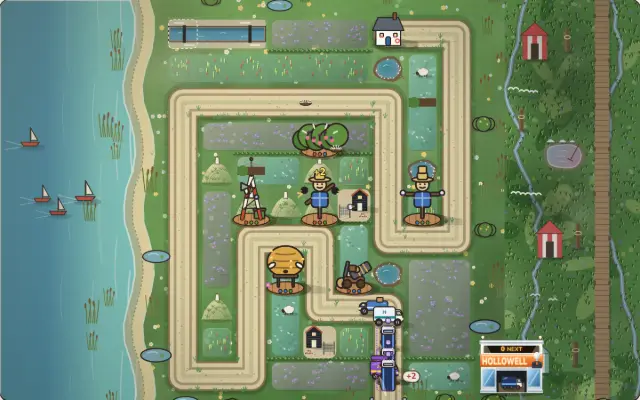
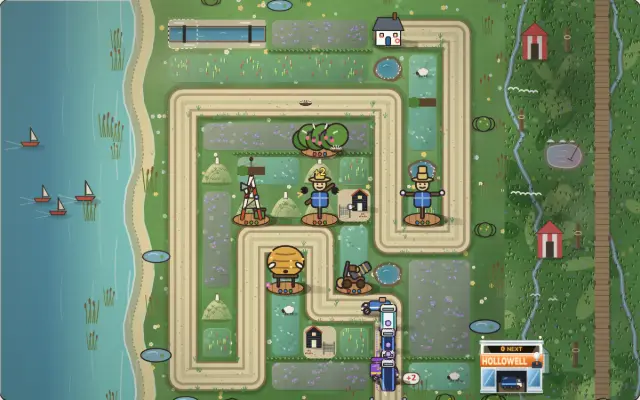
440 slice 3: Hedgerow 2D field hedges throw their shadow away from the act's sun, a second fainter band where they meet the bed (occlusion), their leaf highlights on the sun side; key art re-shot; hedgerow field/fieldkit pass
Claude-Session: https://claude.ai/code/session_01SimvMPB319cCQgjkucXjGQ

Changed region(s): [[0.5625, 0.75, 0.6562, 0.96]]

diff --git a/games/hedgerow/src/theme.ts b/games/hedgerow/src/theme.ts
@@ -734,7 +734,7 @@ function paintPlots(ctx: CanvasRenderingContext2D, level: Level, L: Layout): voi
         // Item 345: where this field meets a different crop below, a low hedge runs along the grass between them.
         const below = leadIn.has(`${c},${r + 1}`) ? undefined : looks.get(`${c},${r + 1}`);
         const flat = (l: PlotLook | undefined) => (l === "puddle" ? "earth" : l);
-        if (below && !sameField(level, c, r, c, r + 1) && flat(below) !== flat(look)) paintFieldHedge(ctx, x, y + s, s, c * 37 + r * 11 + level.id);
+        if (below && !sameField(level, c, r, c, r + 1) && flat(below) !== flat(look)) paintFieldHedge(ctx, x, y + s, s, c * 37 + r * 11 + level.id, away);
         continue;
       }
       ctx.fillStyle = "rgba(60,80,20,0.07)";
@@ -822,11 +822,14 @@ function paintPlots(ctx: CanvasRenderingContext2D, level: Level, L: Layout): voi
 /** Plan item 52: a plot drawn by what lies under it, so neighbouring beds differ. */
 /** Plan item 345: a cell's length of low hedge along the grass between two fields, centred on `y`: a dark base
  *  line and a crown of leafy bumps, seeded so the run of hedge doesn't repeat. */
-function paintFieldHedge(ctx: CanvasRenderingContext2D, x: number, y: number, s: number, seed: number): void {
+function paintFieldHedge(ctx: CanvasRenderingContext2D, x: number, y: number, s: number, seed: number, away = { x: 0, y: 1 }): void {
   const r01 = rng(seed);
   ctx.save();
+  // Plan item 440: the hedge's shadow falls away from the act's sun, darkest where it meets the bed (occlusion)
   ctx.fillStyle = "rgba(40,30,10,0.2)";
-  ctx.fillRect(x, y + s * 0.02, s, s * 0.06);
+  ctx.fillRect(x + away.x * s * 0.05, y + s * 0.02 + away.y * s * 0.04, s, s * 0.06);
+  ctx.fillStyle = "rgba(40,30,10,0.12)";
+  ctx.fillRect(x + away.x * s * 0.1, y + s * 0.04 + away.y * s * 0.08, s, s * 0.05);
   ctx.fillStyle = "rgb(58,96,46)";
   ctx.fillRect(x, y - s * 0.03, s, s * 0.06);
   const bumps = 8;
@@ -839,7 +842,7 @@ function paintFieldHedge(ctx: CanvasRenderingContext2D, x: number, y: number, s:
     ctx.fill();
     ctx.fillStyle = "rgba(150,196,104,0.75)";
     ctx.beginPath();
-    ctx.arc(bx - br * 0.25, y - br * 0.35, br * 0.5, 0, Math.PI * 2);
+    ctx.arc(bx - away.x * br * 0.35, y - br * 0.35, br * 0.5, 0, Math.PI * 2);
     ctx.fill();
   }
   ctx.restore();
